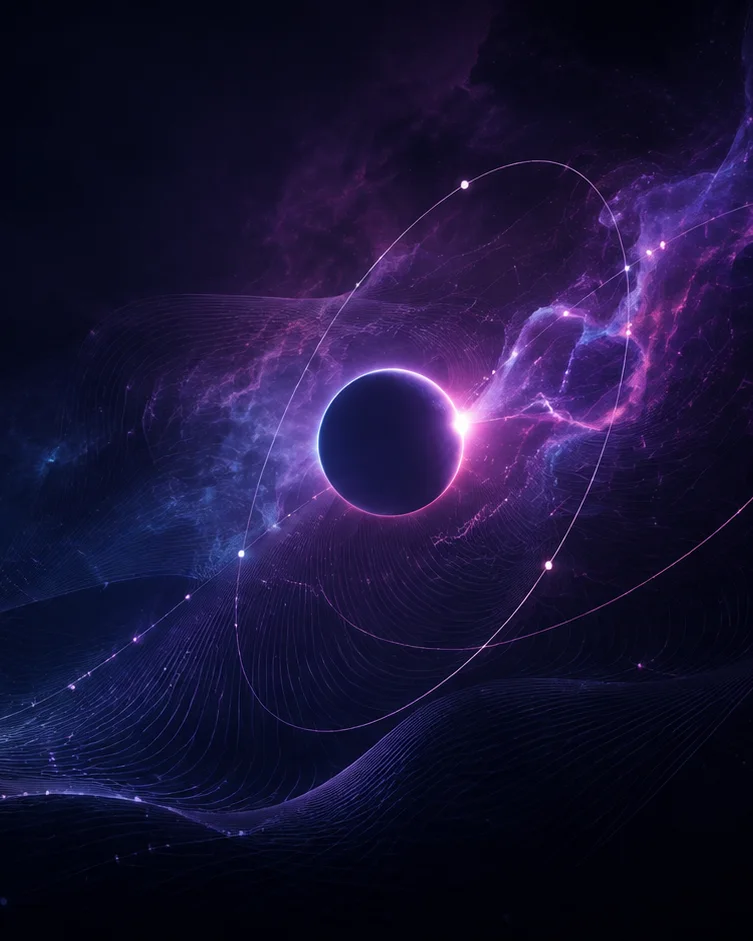
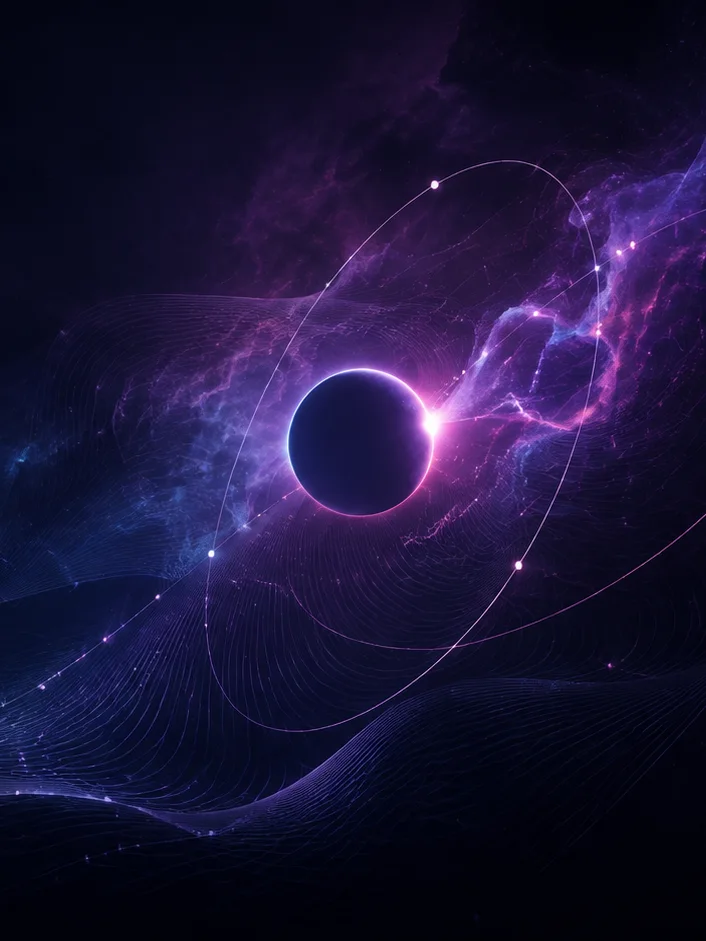
Align homepage artwork with biography

diff --git a/_sass/_layout.scss b/_sass/_layout.scss
@@ -98,6 +98,10 @@ article > .clearfix {
   max-width: 48rem;
 }
 
+article > .clearfix:has(> .research-profile-art) {
+  max-width: none;
+}
+
 article > .clearfix p {
   margin-bottom: 1.15rem;
 }
@@ -136,7 +140,7 @@ article > h2,
   font-weight: 650;
 }
 
-article > .profile {
+.research-profile-art {
   background: #080815;
   border: 1px solid rgba(197, 26, 191, 0.22);
   border-radius: 16px;
@@ -147,8 +151,8 @@ article > .profile {
   width: 31%;
 }
 
-article > .profile img {
-  aspect-ratio: 4 / 5;
+.research-profile-art img {
+  aspect-ratio: 3 / 4;
   display: block;
   object-fit: cover;
   width: 100%;
@@ -309,7 +313,7 @@ footer.fixed-bottom {
     padding-top: 1.5rem;
   }
 
-  article > .profile {
+  .research-profile-art {
     float: none !important;
     margin: 0 auto 1.75rem;
     max-width: 320px;

diff --git a/_pages/about.md b/_pages/about.md
@@ -4,12 +4,6 @@ title: about
 permalink: /
 subtitle:
 
-profile:
-  align: right
-  image: research-space-profile.webp
-  image_alt: A violet eclipse surrounded by orbital paths and flowing scientific field lines in deep space
-  image_circular: false
-
 selected_papers: true # includes a list of papers marked as "selected={true}"
 social: true # includes social icons at the bottom of the page
 
@@ -23,6 +17,10 @@ announcements:
 > Research Engineer in the **Algorithms and Applications** team at [IBM Research](https://research.ibm.com/), working on AI and quantum algorithms for solving partial differential equations.
 >
 > Previously at [Microsoft Research India](https://www.microsoft.com/en-us/research/lab/microsoft-research-india/), IBM Research, and [CognitiveLab](https://www.cognitivelab.in/). Computer Science graduate from [PES University](https://pes.edu/), Bangalore.
+
+<div class="research-profile-art float-right">
+  <img src="{{ '/assets/img/research-space-profile.webp' | relative_url }}" alt="A violet eclipse surrounded by orbital paths and flowing scientific field lines in deep space" fetchpriority="high">
+</div>
 
 I’m interested in **multimodal AI**, **AI for science**, and **quantum algorithms**—especially where AI and quantum computing meet. At [IBM Research](https://research.ibm.com/), I’m exploring classical and quantum methods for scientific computing, with a focus on partial differential equations.
 
